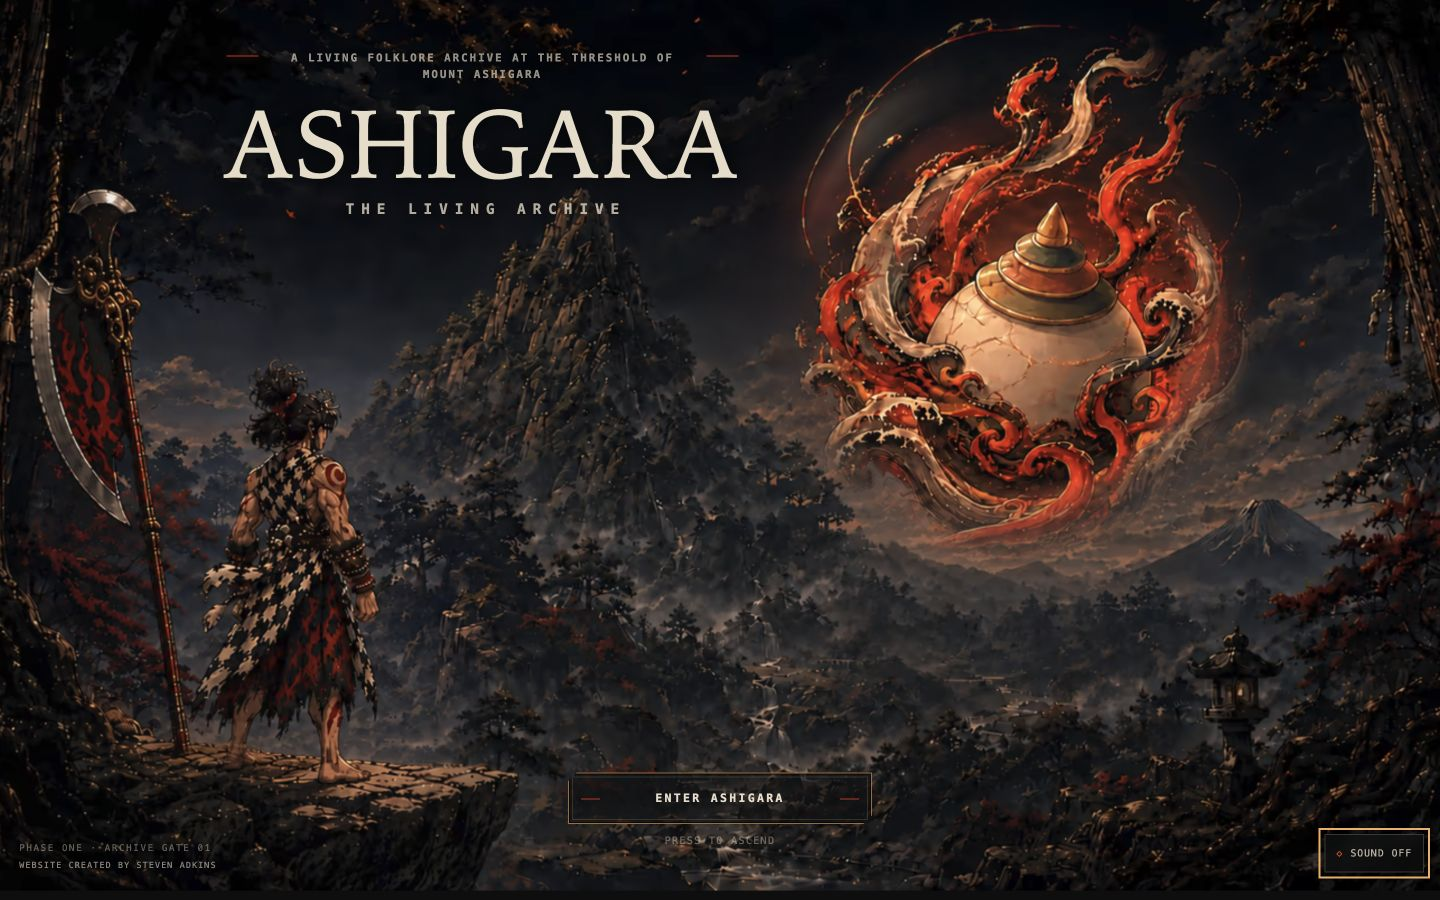
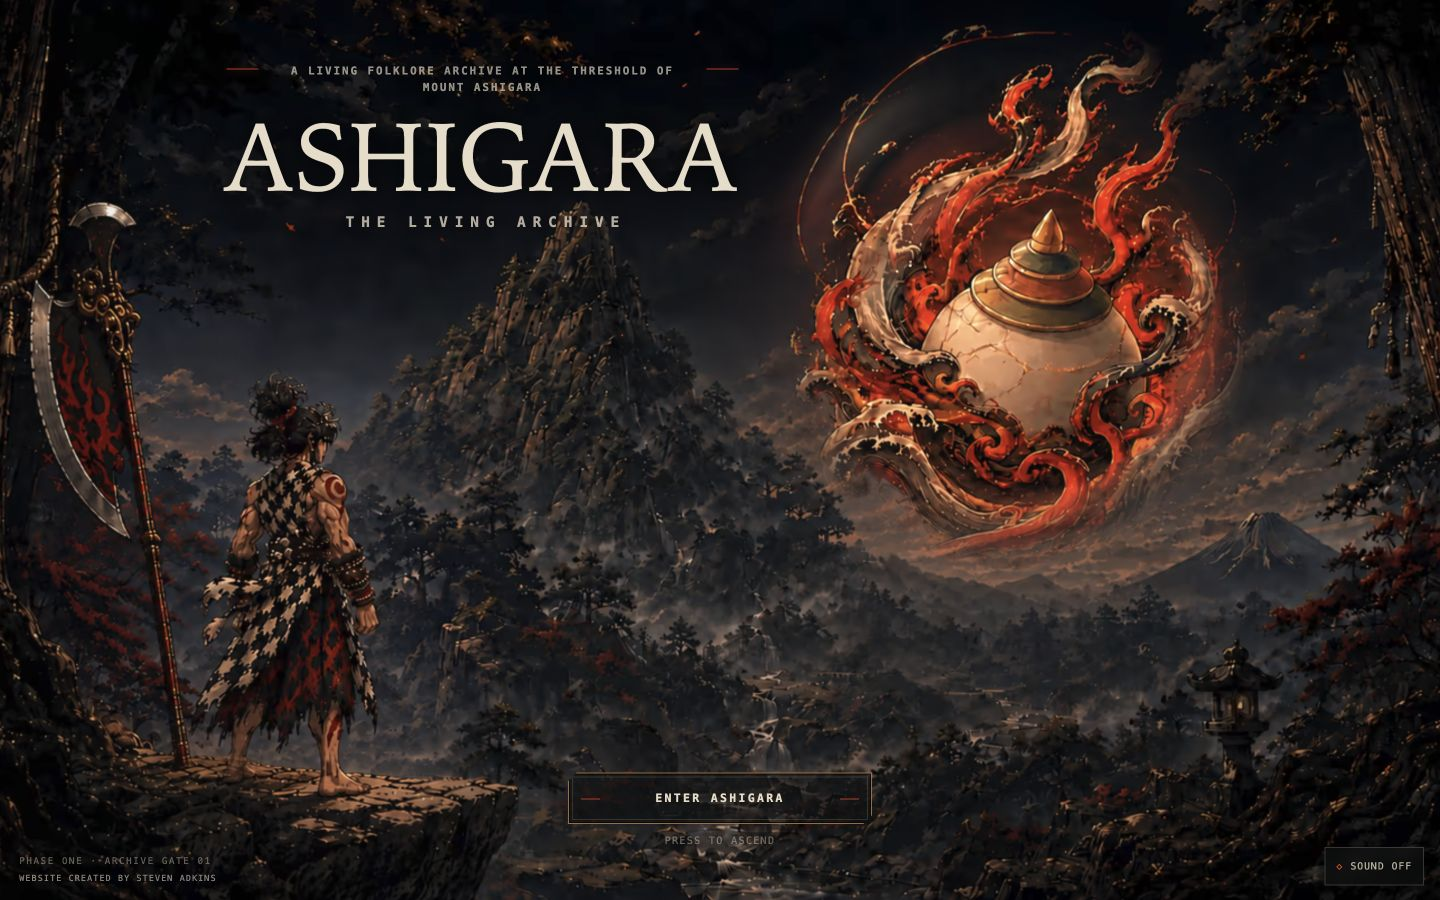
Increase shoulder breathing visibility

diff --git a/app/globals.css b/app/globals.css
@@ -820,8 +820,8 @@ a {
 
 @keyframes kintaroShoulderBreath {
   0%, 100% { transform: scaleX(1) scaleY(1); filter: brightness(1.012); }
-  46% { transform: scaleX(1.011) scaleY(1.002); filter: brightness(1.026); }
-  58% { transform: scaleX(1.009) scaleY(1.0015); filter: brightness(1.022); }
+  46% { transform: scaleX(1.018) scaleY(1.003); filter: brightness(1.03); }
+  58% { transform: scaleX(1.0145) scaleY(1.0024); filter: brightness(1.025); }
 }
 
 @keyframes guardianAura {
@@ -2251,14 +2251,15 @@ a {
   }
 
   .threshold__edition {
-    left: max(0.75rem, env(safe-area-inset-left));
-    bottom: max(6.95rem, calc(env(safe-area-inset-bottom) + 6.45rem));
+    top: max(0.45rem, calc(env(safe-area-inset-top) + 0.25rem));
+    left: max(0.55rem, env(safe-area-inset-left));
+    bottom: auto;
     display: block;
-    width: 15rem;
+    width: 8.5rem;
     color: rgba(231, 221, 200, 0.46);
-    font-size: 0.47rem;
-    letter-spacing: 0.1em;
-    line-height: 1.45;
+    font-size: 0.41rem;
+    letter-spacing: 0.075em;
+    line-height: 1.35;
   }
 
   .threshold__edition span:first-child { display: none; }
@@ -2314,8 +2315,8 @@ a {
 
 @keyframes kintaroShoulderBreathMobile {
   0%, 100% { transform: scaleX(1) scaleY(1); filter: brightness(1.012); }
-  46% { transform: scaleX(1.013) scaleY(1.0025); filter: brightness(1.028); }
-  58% { transform: scaleX(1.0105) scaleY(1.002); filter: brightness(1.023); }
+  46% { transform: scaleX(1.021) scaleY(1.0035); filter: brightness(1.032); }
+  58% { transform: scaleX(1.017) scaleY(1.0028); filter: brightness(1.026); }
 }
 
 @keyframes hojuHoverMobile {

diff --git a/README.md b/README.md
@@ -45,13 +45,13 @@ The threshold is a permanent signature, not a disposable landing page. New folkl
 - Full-height planted axe retained as a separate stationary interaction mask with a crater pulse.
 - Hōju identity preserved as one moving masked relic over a nondestructive actorless clean-plate derivative, with five shallow CSS depth planes, a smooth elliptical sway, controlled internal light, and water/flame/ink phase.
 - Pointer, keyboard focus, and touch can awaken the Hōju without blocking the primary entry path or pausing its continuous sway; motion is clamped to the locked composition.
-- Kintarō's full figure, legs, feet, and ledge stay planted in a static layer while a small feathered shoulder/upper-torso overlay expands by roughly one percent on a restrained breathing loop; no fabricated sprite frames.
+- Kintarō's full figure, legs, feet, and ledge stay planted in a static layer while a small feathered shoulder/upper-torso overlay expands by roughly two percent on a readable breathing loop; no fabricated sprite frames.
 - Rare motes, slow mist, tiny pointer parallax, and no continuous camera drift.
 - Desktop title and archive line occupy an upper-center lockup clear of the axe; mobile uses a centered title/subtitle lockup above the lowered Hōju, plus a compact safe-area-aware entry button.
 - `ENTER ASHIGARA` and subordinate `PRESS TO ASCEND` with double-activation prevention and repeat-visit acceleration.
 - Optional original 16-bit-inspired impact, rising start strobe, and one-second tail synthesized only after the visitor’s gesture; sound is off by default and remembered locally.
 - A transparent body-adjacent Kintarō aura with sparse embers, axe flash, ground-to-Hōju energy pulse, shoulder response, spatial push, and seamless full-frame fade into the archive.
-- Fine-print creator credit on desktop, mobile, and internal archive pages, with compact sound controls positioned outside the principal composition.
+- Fine-print creator credit on desktop, the upper-left mobile safe area, and internal archive pages, with compact sound controls positioned outside the principal composition.
 - The short mobile transition omits the desktop skip control; reduced-motion mode removes idle loops, parallax, mist, and long transitions while preserving entry.
 
 ### Living archive

diff --git a/docs/VALIDATION.md b/docs/VALIDATION.md
@@ -38,7 +38,8 @@ Production preview, 390 × 844 viewport:
 - Threshold selected the independent 941 × 1672 portrait master and rendered at exactly 390 × 844 with no horizontal or vertical overflow.
 - Kintarō's approved upward mobile gaze, separately planted full axe, Hōju, mountain, title, sound control, and entry action remained visible.
 - The Hōju control responded to touch/click and reported its pressed state accessibly.
-- Mobile uses a dedicated shoulder-only Kintarō loop and a smooth eight-point Hōju orbit with linear segment timing; the sound control stays above the entry command, clear of the title and relic.
+- Mobile uses a dedicated shoulder-only Kintarō loop with approximately two-percent peak horizontal expansion and a smooth eight-point Hōju orbit with linear segment timing; the sound control stays above the entry command, clear of the title and relic.
+- The creator credit occupies the extreme upper-left safe area at phone size and remains clear of the centered title.
 - The centered ASHIGARA / THE LIVING ARCHIVE lockup remained clear at the top, the Hōju hovered lower around the mountain peak, and the compact `ENTER ASHIGARA` border stayed centered.
 - During entry, the Kintarō effect remains a semi-transparent body-adjacent glow with sparse sparks rather than an opaque orange circle. The mobile skip control computes to `display: none`, and the sound-control bounds remain fixed above the entry region.
 - The mobile full-frame fade reached 0.947 opacity across the exact 390 × 844 viewport before routing, with no transform or rectangular edge.
